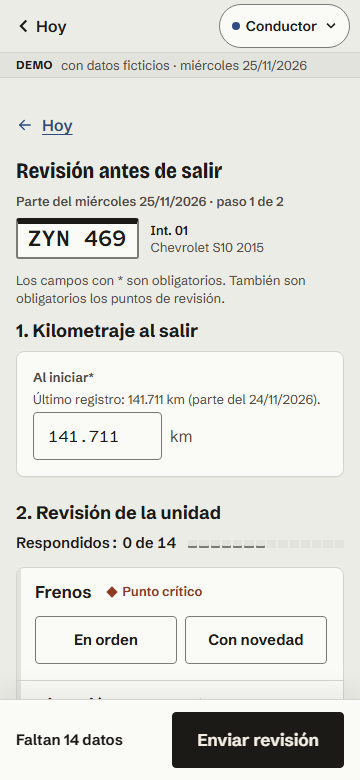
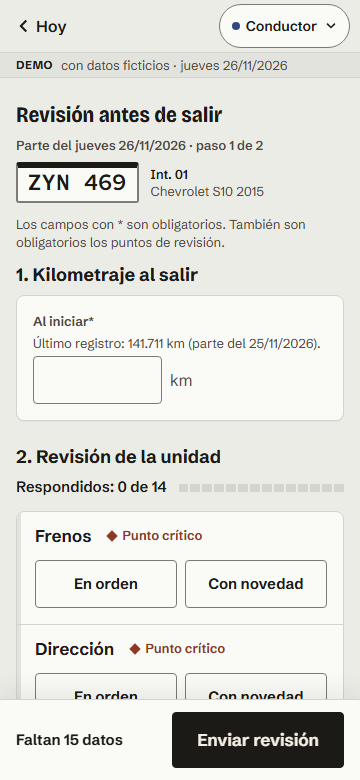
Documentos: capturas rehechas con el build y la CSP reales, reglas visuales del 26/11 en diseno-ui y entrada en el registro

diff --git a/docs/diseno-ui.md b/docs/diseno-ui.md
@@ -39,6 +39,20 @@ regla nueva **«Cerrar antes»** (estado 5 bis del inicio y pantalla E). Aplicad
 
 Los **textos** de interfaz salen de `src/lib/dominio/textos.ts` y `src/componentes/textos-marco.ts`; la sección 7 es histórica. Lo que sigue vigente tal cual: componentes de formulario, parte diario (5.12 a 5.16, 6.5), reglas de foco, accesibilidad (9) y verificación (12), salvo las rutas.
 
+**Actualización del 26/11/2026 — correcciones de presentación tras la crítica de reclutador.** Cambian estas reglas visuales (donde otra sección diga lo contrario, manda esta lista):
+
+| Pieza | Regla nueva |
+| --- | --- |
+| «Fuera de servicio» (Inicio, Movilidades, ficha) | Por **novedad crítica**: tono `critico` (rombo), el mismo nivel que un seguro vencido. Por **taller o a mano**: tono `neutro` (grafito, cuadrado). Ya no usa el ámbar de «vence en 7 días o menos». El origen sale de `estado.origen` de la unidad (`origenDeFueraDeServicio`). La pastilla «Fuera de servicio» de Movilidades reúne las dos clases y va en neutro. El color nunca va solo: forma y texto no cambian. |
+| Cifras tabulares | Solo en cifras sueltas y columnas; no en oraciones (ver 3.4). |
+| Caja «Vencidos o faltantes» de la regla | Desde 44 rem de ancho de la pieza: columna de 10 rem con el rótulo, **una patente o nombre por renglón** (`white-space: nowrap`, nunca partido) y la cifra abajo. Con menos ancho: una línea con « · » entre las piezas, que bajan de renglón sin partirse. |
+| Franja de entrada al recorrido (Inicio, bajo el subtítulo) | Franja de una línea sobre `--c-superficie`, borde de 1 px y riel de 4 px en tinta (el color habla de estado, la tinta de acción), texto en 600 y **el único botón primario de la pantalla** («Probar como conductor» con flecha). En el celular el botón ocupa todo el ancho. Se ve entera en la primera pantalla a 1440 × 900 y a 390 × 844. |
+| «Agregar unidad» (Movilidades) | Botón secundario junto al `h1`; no domina el encabezado en el celular (6.2). |
+| Barra de progreso del parte | Un segmento por punto, gris (`--c-borde`) sin responder, malaquita en orden y cobre con novedad. Sin marca para los puntos críticos (una raya en la mitad de los segmentos parecía un 50 % con 0 de 14). |
+| Enlace «Hoy» del parte en el celular y la tableta | No se repite: si el enlace de la página va al mismo destino que el «‹ Hoy» de la barra superior, se oculta por debajo de 64 rem. En escritorio queda (no hay barra). |
+| Insignia de Inicio (4.3) | Avisa desde las otras pantallas cuántas unidades no pueden salir; estando en Inicio no se muestra (repetía la cifra grande de al lado). |
+| Vista previa al compartir | `index.html` lleva `description`, Open Graph y `twitter:card`; la imagen es `public/og-inicio.png` (1200 × 630, captura de Inicio). Son etiquetas meta: no cargan nada y la CSP no cambia. |
+
 ---
 
 ## 0. Encuadre
@@ -164,8 +178,8 @@ Cada tono tiene texto (`-t`), fondo (`-f`) y franja o marca (`-r`). Nombres de l
 
 | Tono de la demo | Mineral (alias de) | Significa | Forma |
 | --- | --- | --- | --- |
-| `critico` | cobre (`diferencia`) | Vencido, faltante, bloqueada, novedad crítica. | rombo |
-| `semana` | azufre (`revisar`) | Vence en 7 días o menos; fuera de servicio; parte sin enviar; novedad abierta. | triángulo |
+| `critico` | cobre (`diferencia`) | Vencido, faltante, bloqueada, novedad crítica (también la unidad fuera de servicio **por una novedad crítica**). | rombo |
+| `semana` | azufre (`revisar`) | Vence en 7 días o menos; parte sin enviar; novedad abierta. | triángulo |
 | `quincena` | azurita (`pendiente`) | Vence en 8 a 15 días: hay que planificar. | círculo |
 | `mes` | grafito (`neutro`) | Vence en 16 a 30 días: está en el horizonte. | aro |
 | `vigente` | malaquita (`ok`) | Vigente, disponible, parte enviado. | (sin forma) |
@@ -198,7 +212,7 @@ Sin fuentes externas (CSP `font-src 'self'`): tres familias variables, solo el s
 | `--t-tabla` · `--t-chico` · `--t-rotulo` | `0.875rem` · `0.8125rem` · `0.75rem` | Celdas; etiquetas y ayudas; cabeceras y rótulos en mayúsculas (`letter-spacing: .06em`, solo ahí). |
 | `--t-patente-chica` · `--t-patente-grande` | `0.875rem` · `1.625rem` | La patente (la grande, en la ficha y el parte). |
 
-Cifras (kilómetros, litros, días, conteos, fechas en tablas): siempre `tabular-nums`; separador de miles con punto (`84.320 km`). Medida de lectura: párrafos con `max-width: 62ch`. **Todo en `rem`** (el texto al 200 % no parte palabras ni ensancha la página; sección 12).
+Cifras (kilómetros, litros, días, conteos, fechas en tablas): `tabular-nums` **solo en la cifra suelta o en una columna, nunca en una oración** (26/11/2026: con `tnum` esta fuente ensancha el punto, los dos puntos y la barra, y «Último registro: 59.413 km» se leía «Último registro : 59 . 413 km»); separador de miles con punto (`84.320 km`). Medida de lectura: párrafos con `max-width: 62ch`. **Todo en `rem`** (el texto al 200 % no parte palabras ni ensancha la página; sección 12).
 
 ### 3.5 Espaciado, radios, sombras
 
@@ -325,7 +339,7 @@ al botón; clic afuera cierra. Ítems de 44 px de alto.
 ```
 
 - `<section class="panel" aria-labelledby="{id del h2}">`. Título = `h2`, `1rem/1.3`, 600, `--t-familia-titulo`.
-- Dato (`.panel-meta`): `--t-chico`, `--c-texto-2`, cifras tabulares, separado del título por un divisor vertical de
+- Dato (`.panel-meta`): `--t-chico`, `--c-texto-2`, sin cifras tabulares (es una oración), separado del título por un divisor vertical de
   1 px × 1 rem. A < 24rem de contenedor baja a un renglón propio.
 - Barra de estado: siempre en el DOM (las regiones `role="status"` tienen que existir antes del texto). Vacía:
   `min-height: 0; padding-block: 0; border-top-color: transparent;` (como Demo 1, 13.2.5). Los mensajes **no
@@ -434,7 +448,8 @@ Heredada: rectángulo `--r-1`, alto 1.5rem, relleno `0 .5rem`, `--t-chico` 600, 
 | Puede salir | "Puede salir" — **variante texto, sin fondo** (D1 (b)) | vigente | `i-check` |
 | No puede salir | "No puede salir" (+ motivo al lado, en texto) | critico | `i-vencido` |
 | Conductor sin licencia vigente (L1) | "Sin licencia vigente" | critico | `i-vencido` |
-| Fuera de servicio | "Fuera de servicio" (+ motivo) | semana | `i-llave` |
+| Fuera de servicio por una novedad crítica (frenos, por ejemplo) | "Fuera de servicio" (+ motivo) | critico (26/11/2026: igual de grave que un seguro vencido) | rombo (`i-octogono`) |
+| Fuera de servicio por taller o decidido a mano | "Fuera de servicio" (+ motivo) | neutro (grafito; 26/11/2026: ya no se confunde con «vence en 7 días o menos») | cuadrado (`i-llave`) |
 | De baja | "De baja" | neutro | `i-caja` |
 | Novedad crítica | "Crítica" | critico | `i-octogono` |
 | Novedad normal | "Abierta" | semana | `i-llave` |
@@ -550,7 +565,7 @@ parte · Novedades · Proyecto y conductor.
     medidas ZYN 469 y ZK 214 BD, 172 y 174). Cada dato que suma un renglón (interno y modelo que bajan, próximo
     vencimiento en dos renglones, etiqueta del último parte, novedades) suma unos 20 a 28 px: **≤ 230 px** toda tarjeta
     cuyo texto arma la lógica (medidas ZW 827 VD y ZW 749 JE, 220). Un motivo escrito por una persona no tiene tope.
-- Franja izquierda **solo** en filas que no pueden salir (crítico), fuera de servicio (semana) o de baja (neutro). Las
+- Franja izquierda **solo** en filas que no pueden salir (crítico), fuera de servicio (crítico si es por una novedad crítica, neutro si es de taller) o de baja (neutro). Las
   que pueden salir no llevan franja: un muro verde no informa nada.
 - **Orden:** un `select` "Ordenar por" (Prioridad, Patente, Interno, Próximo vencimiento, Último parte) en la barra de
   herramientas, válido para las tres disposiciones (en vez de cabeceras con flechas, que en tarjetas no existen).
@@ -854,8 +869,8 @@ pueden salir hoy».
   **Con 0:** franja vigente, `i-check` 24 px, "Todas las unidades activas pueden salir hoy." y "Disponibles hoy: 23 de 23."
 - **Color de los motivos (D4 (b), 19/11/2026):** el motivo de cada unidad va en **`--c-texto`** (16,54 claro · 14,31
   oscuro sobre superficie), no en `--c-critico-t`; el `›` en `--c-texto-3`. El rojo queda en la franja y en la cifra.
-  Así "Fuera de servicio" (tono semana en el resto de la demo) deja de verse igual de grave que "Seguro vencido", y
-  cuatro renglones se leen mejor.
+  Así "Fuera de servicio" por taller (tono neutro desde el 26/11/2026; antes, semana) deja de verse igual de grave que
+  "Seguro vencido", y cuatro renglones se leen mejor.
 - **Conductores que no pueden manejar hoy (L6, 19/11/2026):** solo si hay al menos uno, dentro del mismo panel, debajo
   de la lista de unidades: divisor de 1 px `--c-borde`, `h3` "Conductores que no pueden manejar hoy (1)" (`--t-h3`) y
   una fila por conductor: `i-vencido` 18 px `--c-critico-t` · nombre "{Nombre} (persona ficticia)" (`--t-tabla` 600
@@ -948,7 +963,7 @@ Jerarquía: 1) encontrar la unidad; 2) ver su estado de hoy; 3) agregar.
 **Escritorio, 1280 px**
 
 ```
-│ Flota (h1)                                                         [ Agregar unidad ] (primario) │
+│ Flota (h1)                                                       [ Agregar unidad ] (secundario) │
 │ 23 unidades activas · 19 pueden salir · 2 no pueden salir · 2 fuera de servicio · 1 de baja      │
 │ ┌ ▦ Unidades │ 23 ──────────────────────────────────────────────────────────────────────────────┐ │
 │ │ [🔍 Buscar por patente, interno, modelo o conductor   ]  Proyecto [Todos ▾]  Ordenar por [Prioridad ▾] │
@@ -969,7 +984,7 @@ Jerarquía: 1) encontrar la unidad; 2) ver su estado de hoy; 3) agregar.
 - **Vacío por filtro:** "Ninguna unidad coincide con «zz9» en Proyecto Piedra Lunar." + botón-texto "Quitar filtros".
 - **Tableta:** búsqueda a todo el ancho; Proyecto y Ordenar por en una fila; filtros en una fila que se acomoda en dos;
   tabla compacta (Unidad + Estado · Próximo vencimiento + Último parte · Km + Novedades).
-- **Teléfono:** "Agregar unidad" pasa debajo del `h1`, a todo el ancho; búsqueda, `select`s y filtros apilados;
+- **Teléfono:** "Agregar unidad" (botón **secundario** en todos los tamaños desde el 26/11/2026) va junto al `h1` y baja debajo solo si no entra; búsqueda, `select`s y filtros apilados;
   tarjetas como en 5.10 (S10): patente-enlace + "Int. 07 · Toyota Hilux 2022" sin cortar, etiqueta de estado y motivo,
   próximo vencimiento (solo si no es crítico), "84.320 km · último parte 17/11/2026 [etiqueta]".
 

diff --git a/docs/registro.md b/docs/registro.md
@@ -1453,3 +1453,34 @@ Salen de dos informes internos (crítica de reclutador y revisión de código, n
 **No se hizo.** Estilo de la franja (`.entrada-recorrido`, del maquetador); README, `index.html` y colores (puntos 1, 2, 4 y 6 de la crítica, y los de documentos); las capturas `docs/img/parte-revision-360.png` y su texto alternativo todavía muestran el kilometraje precargado.
 
 **Verificación.** `npm run check`: 0 errores y 0 avisos (376 archivos); `npm test`: 1.940 pruebas en 77 archivos (eran 1.935); `npm run test:tz` (UTC, Asia/Tokio, América/Los Ángeles): 1.940 en cada zona; `npm run buscar`: sin hallazgos (9 reglas, 248 archivos); `npm run build` sin errores; `npm run peso`: JS inicial 116.508 B (tope 120.000, margen 3.492) y total 142.940 B (sobre el aviso de 136.000, que no falla). En Chromium con Playwright contra `npm run servir`: la franja aparece, «Probar como conductor» abre «Ver como» con Tamara Olivera elegida, «Aplicar» lleva a `#/conductor` y la consola queda sin errores.
+
+
+## 26/11/2026 (rama `interfaz-app`) — Correcciones de presentación tras la crítica de reclutador (maquetador)
+
+Nueve commits, uno por punto de la crítica (importantes 1 a 5 y menores 6 a 9); no se tocó la lógica de `src/lib/`.
+
+| Punto | Qué cambió | Dónde |
+| --- | --- | --- |
+| 1. Patentes partidas | El `@container regla (min-width: 44rem)` iba **antes** de las reglas base de `.vencidos` y `.v-texto small` y estas lo pisaban (la caja nunca pasaba a columna). Ahora va después, sin `overflow-wrap: anywhere`, y cada patente o nombre es un `<span class="quien">` con `white-space: nowrap`: uno por renglón en la columna de 10 rem y, en una línea, con « · » entre las piezas. | `HorizonteRegla.svelte` |
+| 2. Puntuación espaciada | Con `tnum` esta fuente ensancha el punto, los dos puntos y la barra (medido: «59.413» pasa de 46,3 a 60,9 px). `.num` fuera de las oraciones (último registro, respondidos, rango de kilómetros del historial, litros, combustible, texto de kilometraje y novedades críticas de la tabla), del dato del panel y de la fecha de la barra. Queda en cifras sueltas y columnas. | `PantallaConductor`, `ParteFormulario`, `FichaHistorial`, `FichaKilometraje`, `PantallaFlota`, `Panel`, `App` |
+| 3. Gravedad invertida | «Fuera de servicio» por novedad crítica: tono crítico (rombo). Por taller o a mano: neutro (cuadrado). Inicio, Movilidades (etiqueta, franja y pastilla) y ficha. Se agregaron al script de contraste el par `neutro-r / neutro-f` y `neutro-r / superficie`. | `alertas-aspecto.ts`, `PantallaInicio`, `PantallaFlota`, `FichaEncabezado`, `scripts/contraste.mjs` |
+| 4. Franja de entrada | Estilo de `.entrada-recorrido`: una línea sobre superficie, riel de tinta, botón **primario** con flecha; en el celular el botón ocupa todo el ancho. | `PantallaInicio.svelte` |
+| 5. Metadatos | `description`, `og:*` y `twitter:card`; imagen `public/og-inicio.png` (1200 × 630, 107 KB). `servir-dist.mjs` conoce `.png`. | `index.html`, `public/`, `scripts/servir-dist.mjs` |
+| 6. Doble «Hoy» | El enlace de la página se oculta por debajo de 64 rem si va al mismo lugar que el «‹ Hoy» de la barra. | `ParteEncabezado`, `PantallaParte` |
+| 7. Barra de progreso | Sin la raya de los puntos críticos; el segmento vacío pasa a `--c-borde`. | `ParteFormulario.svelte` |
+| 8. «Agregar unidad» | Secundario y junto al título (flex con salto de renglón), en todos los tamaños. | `PantallaFlota.svelte` |
+| 9. Insignia de Inicio | Se oculta estando en Inicio; en las otras pantallas sigue avisando cuántas unidades no pueden salir. | `App.svelte` |
+
+**Decisiones propias** (no estaban en la especificación; las más simples):
+
+- El origen del fuera de servicio se lee de `app.estado` desde `alertas-aspecto.ts` (`origenDeFueraDeServicio`), porque las filas de Inicio y de Movilidades no lo traen y la lógica no se tocaba. Si el programador prefiere, puede sumar `origen` a esas filas y ese helper se borra.
+- «Fuera de servicio» por taller usa el tono `neutro` que ya existe (el mismo grafito de «De baja»); las dos se distinguen por el texto. No se inventó una paleta.
+- La pastilla «Fuera de servicio» de Movilidades reúne las dos clases: va en neutro con cuadrado, no en ámbar.
+- El 6 y el 9 son decisiones de alcance: el enlace repetido solo se oculta cuando coincide con la barra (con perfil Encargado el enlace es «Ficha de ZYN 469» y se queda); la insignia sigue cumpliendo una función desde las otras pantallas.
+- «Agregar unidad» pasó a secundario también en escritorio, para no mantener dos variantes por ancho de pantalla.
+
+**Capturas.** Rehechas con el `dist/` servido con la CSP real: `docs/img/inicio.png` (1280 × 900), `parte-revision-360.png` (ya sin el kilometraje precargado) y `parte-bloqueado-360.png`. El texto alternativo del README no se tocó.
+
+**No se hizo.** Renombrar «Checklists» ni la navegación triplicada (después del lanzamiento); el texto del README; Safari, Firefox, lector de pantalla ni pantalla táctil reales.
+
+**Verificación.** `npm run check`: 0 errores y 0 avisos (376 archivos); `npm test`: 1.940 pruebas en 77 archivos; `npm run buscar`: sin hallazgos (9 reglas, 249 archivos); `npm run contraste`: 244 mediciones, 0 fallan, 1 justa (`peligro-hover`, la de antes); `npm run build` sin errores; `npm run peso`: JS inicial 116.508 → **116.725 B** (tope 120.000, margen 3.275) y total 143.241 B (sobre el aviso, como antes). Chromium con Playwright contra `npm run servir` (CSP real): 84 pantallas (9 del Encargado y 5 del Conductor × 360, 390 y 1.440 px × claro y oscuro) sin desborde horizontal y con la consola sin errores ni violaciones de CSP; se miraron además las capturas de Inicio, Movilidades, Vencimientos, ficha, Hoy y parte a 360, 390 y 1.440 px en claro y oscuro.
